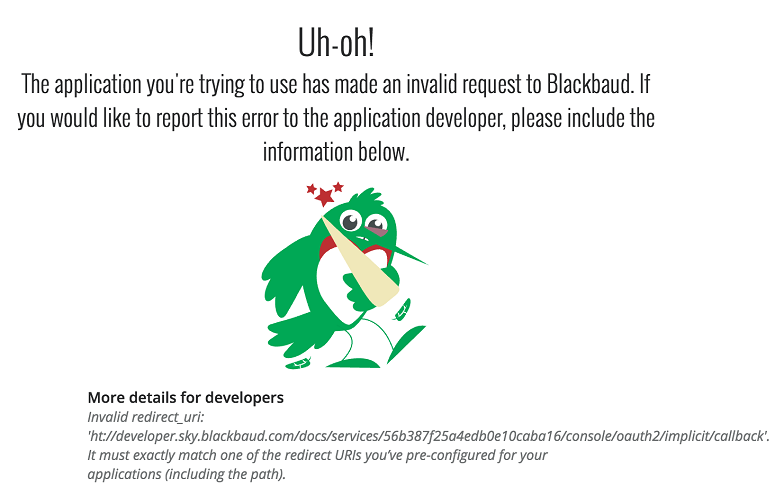
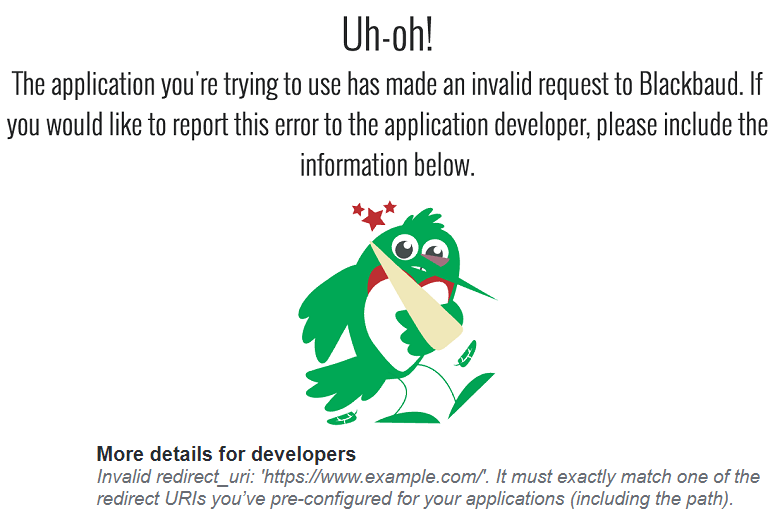
Updated common auth issues page with additional details and images

Changed region(s): [[0.0, 0.0307, 0.991, 0.3381], [0.0929, 0.7992, 0.991, 0.9836], [0.3406, 0.3689, 0.6503, 0.8299]]

diff --git a/content/docs/authorization/common-auth-issues/index.md b/content/docs/authorization/common-auth-issues/index.md
@@ -13,98 +13,142 @@ title: Common Authorization Issues
 
 # {{ name }}
 
-You may encounter one of the following common issues when initiating authorization and calling the {{ stache.config.product_name_short }}.
+You may encounter one of the following common issues when initiating authorization, requesting access tokens, or calling the {{ stache.config.product_name_short }}.
 
-## Request authorization
+## Initiating Authorization
 
-<p><bb-alert bb-alert-type="warning"><strong>Important!</strong> Pop up blockers may interfere with obtaining access tokens in the {{ stache.config.dev_console_name }}. Please enable pop ups when using the {{ stache.config.dev_console_name }} to obtain access tokens.</bb-alert></p>
+Applications initiate the OAuth process by directing the user's browser to our [Authorization]({{ stache.config.authorization_endpoint }}) page with various parameters that identify the application and the type of authorization being requested.  
+
+<p><bb-alert bb-alert-type="warning"><strong>Important!</strong> Pop up blockers may interfere with obtaining access tokens if the authorization page is launched in a separate window (as is done in the {{ stache.config.dev_console_name }}). Please enable pop ups when using the {{ stache.config.dev_console_name }} to obtain access tokens.</bb-alert></p>
 
 ### Invalid client_id 
 
+The `client_id` parameter is required and used to identify the application requesting authorization.  If omitted, the following error will be shown:
+
+![Invalid client_id](/assets/img/missing_client_id.png "Invalid client_id")
+
+If an invalid `client_id` parameter is specified, the following error will be shown:
+
 ![Invalid client_id](/assets/img/invalid_client_id.png "Invalid client_id")
 
-After you register an application, its credentials are created and displayed in the **Application** **Credentials column** of the [My Applications]({{ stache.config.developer_app_management_url }}) page. **Application ID** is the unique identifier for your application. Use this value for the `client_id` parameter value.
+To resolve these issues, ensure that the authorization URL includes the `client_id` parameter, which is displayed in the **Application Credentials column** of the [My Applications]({{ stache.config.developer_app_management_url }}) page. **Application ID** is the unique identifier for your application, and should be specified as the `client_id` parameter when initiating the authorization process.
 
 ### Invalid redirect_uri
 
+The `redirect_uri` parameter is required and used to confirm the application's identity and communicate where to send the browser after the user provides consent.  If omitted, the following error will be shown:
+
+![Invalid redirect_uri](/assets/img/missing_redirect_uri.png "Invalid redirect_uri")
+
+If an invalid or malformed `redirect_uri` parameter is specified, the following error will be shown:
+
+![Invalid redirect_uri](/assets/img/malformed_redirect_uri.png "Invalid redirect_uri")
+
+If the value provided for the `redirect_uri` parameter does not match one of the values provided when the application was registered, the following error will be shown:
+
 ![Invalid redirect_uri](/assets/img/invalid_redirect_uri.png "Invalid redirect_uri")
 
-This URI needs to be in the Redirect URI whitelist that you specify when you [register your application]({{ stache.config.guide_registering_your_app }}). The value must match exactly, including capitalization, terminating slashes, etc.
+To resolve these issues, ensure that the value provided for the `redirect_uri` parameter is one of the whitelisted values that you specified when [registering your application]({{ stache.config.guide_registering_your_app }}).  The value must match _exactly_, including capitalization, terminating slashes, etc.
 
 ### Invalid response_type
 
-When initiating authorization with the `\authorization` endpoint, you must pass an appropriate value for the `response_type` request body parameter as per the OAuth 2 specification. The value must be set to `code` when using [Authorization Code Flow]({{ stache.config.guide_web_api_authorization_auth_code_flow }}) and `token` when using [Implicit Flow]({{ stache.config.guide_web_api_authorization_implicit_flow }}).
+The `response_type` parameter is required, and indicates the the type of authorization being requested by the application. The value must be set to `code` when using the [Authorization Code Flow]({{ stache.config.guide_web_api_authorization_auth_code_flow }}) or `token` when using the [Implicit Flow]({{ stache.config.guide_web_api_authorization_implicit_flow }}).
 
-### User has no tenants
+If the `response_type` parameter is omitted, the user's browser will be redirected to the specified `redirect_uri` location with an `error` query parameter of `invalid_request`.  If the value specified is invalid or unsupported, the `error` query parameter will be `unsupported_response_type`.
 
-![User has no tenants](/assets/img/auth_no_tenants.png "User has no tenants")
+### User cannot access any SKY API enabled products
 
-To authorize access to a user’s Blackbaud data, the user must have access to web view for Raiser’s Edge NXT or Financial Edge NXT. This requirement allows {{ stache.config.product_name_short }} to respect the security rights of the authorized Blackbaud product user. To become a web view user, contact your organization administrator and request an invitation.
+If the authenticated user cannot access any SKY API enabled Blackbaud products, the following error will be shown: 
 
-### Application not activated
+![User cannot access any SKY API enabled products](/assets/img/auth_no_tenants.png "User cannot access any SKY API enabled products")
 
-![Application not activated](/assets/img/auth_application_not_activated.png "Application not activated")
+In order to provide consent for an application to access any Blackbaud data, the authenticating user must have access to a SKY API enabled Blackbaud product. This requirement allows {{ stache.config.product_name_short }} to respect and enforce the user's security permissions. If the user does not have access, they should contact the organization administrator and request an invitation.
 
-Before an application can request authorization and make API calls to a Blackbaud product, an organization administrator must add the application to the tenant. Administrators can also remove an application when they no longer want the application to have access to their Blackbaud product. For more information, see [Activate your application]({{ stache.config.guide_web_api_activate_application }}).
+### Application not approved
 
-## Request tokens
+Before an application can request authorization and make calls to the SKY API, an organization administrator must approve the application.  If the application has not been approved, the following error will be shown:
+
+![Application not approved](/assets/img/auth_application_not_activated.png "Application not approved")
+
+Note that organization administrators can also remove an application when they no longer want it to have access to their Blackbaud data. For more information, see [Activate your application]({{ stache.config.guide_web_api_activate_application }}).
+
+### User denied access
+
+During the OAuth process, the user can choose to deny consent to the application.  When this happens, the user's browser will be redirected to the specified `redirect_uri` location with an `error` query parameter of `access_denied` and an `error_message` query parameter value of `The user chose not to give your app access to their Blackbaud data.`.
+
+### Other parameters
+
+Note that any query parameters not directly supported will be ignored during the OAuth process.  For more information on initiating the OAuth process, see [Authorization](/docs/authorization).
+
+## Requesting Tokens
+
+Applications using the [Authorization Code Flow]({{ stache.config.guide_web_api_authorization_auth_code_flow }}) will call the `/token` endpoint to exchange authorization codes for access tokens and to refresh access tokens when they expire.  Calls to the `/token` endpoint require authentication and a request body that describes the operation being performed.
+
+Error responses from the `/token` endpoint match the shape defined by <a href="https://tools.ietf.org/html/rfc6749#section-5.2">Section 5.2</a> of the OAuth 2.0 spec, and will be returned as a JSON object containing `error` and `error_description` properties:
+
+<pre><code class="language-http">{
+    "error": "invalid_client",
+    "error_description": "The specified credentials were not valid."
+}</code></pre>
+
+ ### invalid_client error
+ 
+This error indicates that we were unable to retrieve and verify the application's credentials (application ID and secret) from either the authorization header or the request body. To resolve this, ensure that you are providing the application credentials as either base64-encoded values within the Authorization header (preferred), or as form-url-encoded values `client_id` and `client_secret` in the request body. 
+
+<p>
+<bb-alert bb-alert-type="info"><strong><em>Note:</em></strong> When specifying credentials using the `Authorization` header, the value must have the format: <code>Basic &lt;base64 encoded Application ID:Application secret&gt;</code>.  Make sure to include a space after the "Basic" prefix.</bb-alert>
+</p>
+
+After you register an application, the credentials are displayed in the **Application Credentials column** of the [My Applications]({{ stache.config.developer_app_management_url }}) page. **Application ID** is the unique identifier for your application, and should be specified as the `client_id` parameter value.  Use the **Application Secret** as the `client_secret` parameter value.
+
+For more information, see step 4 of [Authorization Code Flow](/docs/authorization/auth-code-flow/#step-4-mdash-request-tokens) documentation.
+
+Variations of this error condition can take the following forms:
+
+- "The required credentials were not supplied."
+
+- "The required client_id parameter was not provided."
+
+- "The specified credentials were not valid."
+
+- "The value specified for the client_id parameter 'XXXXXXXX-XXXX-XXXX-XXXX-XXXXXXXXXXX' was not valid."
+
+Ensure that the application's credentials were properly specified as either base64-encoded values within the Authorization header (preferred), or as form-url-encoded values `client_id` and `client_secret` in the request body. 
 
 ### invalid_redirect_uri error
 
-> "The specified value for the `redirect_uri` parameter did not match any pre-registered values."
+> "The specified value for the redirect_uri parameter 'xxxxxxx' did not match any pre-registered values."
 
-This URI needs to be in the Redirect URI whitelist that you specify when you [register your application]({{ stache.config.guide_registering_your_app }}).  The value must match _exactly_ including capitalization, terminating slashes, etc.
+The value provided for the `redirect_uri` field in the request body must be one of the whitelisted values that you specified when [registering your application]({{ stache.config.guide_registering_your_app }}).  The value must match _exactly_, including capitalization, terminating slashes, etc.
 
-For the Authorization Code Flow, when requesting an access token from the `\token` endpoint, you must pass your registered application's `redirect_uri` for validation purposes.  The value of this parameter must exactly match the value of `redirect_uri` supplied when requesting the authorization code.
+Note that within the `/token` endpoint this value is only used for validation purposes (no redirect actually happens).  The value must _exactly_ match the value of the `redirect_uri` parameter that was specified when originally requesting the authorization code.
 
 ### unsupported_grant_type error
 
 > "unsupported_grant_type" error
 
-When requesting an access token from the `\token` endpoint, you must pass an appropriate value for the `grant_type` request body parameter as per the OAuth 2 specification.  Check the spelling of the `grant_type` value.
-
-### invalid_client error
-
-> "invalid_client" error - "The value specified for the `client_id` parameter 'XXXXXXXX-XXXX-XXXX-XXXX-XXXXXXXXXXX' was not valid."
-
-After you register an application, its credentials are created and displayed in the **Application Credentials** column of the <a href="{{ stache.config.developer_app_management_url }}" target= "_blank">My Applications</a> page. **{{ stache.config.guide_apps_client_id_name }}** is the unique identifier for your application.  Use this value for the `client_id` parameter value.
-
- ### invalid_client error
- 
- > "invalid_client" error - "The required credentials were not supplied."
- 
-This error indicates that we were unable to retrieve the application’s credentials (client ID + secret) from either the authorization header or the request body. To resolve, ensure that you are correctly providing the application credentials as base64-encoded values within the Authorization header (preferred), or as form-url-encoded values in the request body. 
-
-<p><bb-alert bb-alert-type="info"><strong><em>Note:</em></strong> If using the Authorization header, you need to include a space after <code>Basic</code>. The value must have the format: <code>Basic &lt;base64 encoded Application ID:Application secret&gt;</code>.</bb-alert></p>
-
-For more information, see step 4 of [Authorization Code Flow documentation](/docs/authorization/auth-code-flow/#step-4-mdash-request-tokens).
-
-
-
-
+When requesting an access token from the `/token` endpoint, you must pass an appropriate value for the `grant_type` request body parameter as per the OAuth 2.0 specification.  When initially exchanging an authorization code for an access token, the value specified should be `authorization_code`.  When refreshing an access token, the value specified should be `refresh_token`.  Check the spelling of the `grant_type` parameter name, and ensure that the value provided is supported. 
 
 ### invalid_grant error
 
 > "invalid_grant" error
 
-This error is caused by an invalid value in your request to the `/token` endpoint as part of the [Authorization Code Flow](/docs/authorization/auth-code-flow/).
+This error can be returned for a variety of reasons when requesting an access token.
 
-For example, when you perform a [request for an access token](/docs/authorization/auth-code-flow/#step-4--request-tokens), you will see this error when providing an invalid, expired, or previously used authorization code. In this case, you must restart the authorization process and obtain a new authorization code from the `/authorization` endpoint. The authorization codes expire in a period of time (currently, {{ stache.config.auth_token_expiration_minutes }}) and are not reusable. Your application should exchange them for access tokens promptly.
+For example, when [exchanging an authorization code](/docs/authorization/auth-code-flow/#step-4--request-tokens) for an access token, you will see this error when providing an invalid, expired, or previously used authorization code. In this case, you must restart the authorization process and obtain a new authorization code from the `/authorization` page. The authorization codes expire in a short period of time (currently, {{ stache.config.auth_token_expiration_minutes }}) and are not reusable. Your application should exchange them for access tokens promptly.
 
 A `redirect_uri` that does not match the one used when making the [initial authorization](/docs/authorization/auth-code-flow/#step-1--request-authorization) request can also cause this error. To resolve this, use the same `redirect_uri` in both operations.
 
 You may also see this when you [refresh an access token](/docs/authorization/auth-code-flow/#step-7--refresh-access-token) if you provide an expired, revoked, or otherwise invalid refresh token.
 
- 
 ## Calling the {{ stache.config.product_name_short }}
 
 ### invalid subscription key
 
 > "Access denied due to invalid subscription key. Make sure to provide a valid key for an active subscription."
 
-Be sure to provide either your primary or secondary subscription key for an active API subscription.
+When making calls to the SKY API, be sure to provide either your primary or secondary subscription key with the request.
 
-The subscription key represents a subscription to a specific {{ stache.config.api_type_name }} product and is associated with your developer account. To get an subscription key, you'll need to sign up for a Blackbaud developer account and an approved subscription. Once you have an approved subscription, you can view your subscription keys within your <a href="{{ stache.config.portal_profile }}" target= "_blank">profile</a>.  The subscription key value is passed with each request to the {{ stache.config.api_type_name }} via the  `bb-api-subscription-key` request header. See <a href="{{ stache.config.guide_getting_started }}" target="_blank">Getting Started</a> for instructions on how to obtain a subscription key and an example of using the subscription key in a call to the API.
+The subscription key represents a subscription to a specific {{ stache.config.api_type_name }} product and is associated with your developer account. To get a subscription key, you'll need to sign up for a Blackbaud developer account and get an approved subscription. Once you have an approved subscription, you can view the subscription keys within your <a href="{{ stache.config.portal_profile }}" target= "_blank">profile</a>.  The subscription key value is passed with each request to the {{ stache.config.api_type_name }} via the  `bb-api-subscription-key` request header. See <a href="{{ stache.config.guide_getting_started }}" target="_blank">Getting Started</a> for instructions on how to obtain a subscription key and an example of using the subscription key in a call to the API.
 
 ### missing/invalid authorization header
 
@@ -121,7 +165,6 @@ It's a common mistake to forget to prepend the `access_token` value with `Bearer
 <pre><code class="language-http">GET {{ stache.config.resource_url }}/constituents/280 HTTP/1.1
 Host: {{ stache.config.resource_hostname }}
 Authorization: Bearer eyJ0eXAiOiJKV1...CTtP0CQ
-Cache-Control: no-cache
 bb-api-subscription-key: 77f137116...480d633
 </code></pre>
 
